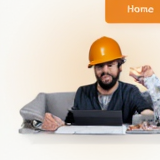
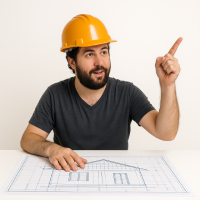
fix: changed style and images used in site

diff --git a/css/brands.css b/css/brands.css
@@ -1,0 +1,6 @@
+/*!
+ * Font Awesome Free 6.7.2 by @fontawesome - https://fontawesome.com
+ * License - https://fontawesome.com/license/free (Icons: CC BY 4.0, Fonts: SIL OFL 1.1, Code: MIT License)
+ * Copyright 2024 Fonticons, Inc.
+ */
+:host,:root{--fa-style-family-brands:"Font Awesome 6 Brands";--fa-font-brands:normal 400 1em/1 "Font Awesome 6 Brands"}@font-face{font-family:"Font Awesome 6 Brands";font-style:normal;font-weight:400;font-display:block;src:url(../webfonts/fa-brands-400.woff2) format("woff2"),url(../webfonts/fa-brands-400.ttf) format("truetype")}.fa-brands,.fab{font-weight:400}.fa-monero{--fa:"\f3d0"}.fa-hooli{--fa:"\f427"}.fa-yelp{--fa:"\f1e9"}.fa-cc-visa{--fa:"\f1f0"}.fa-lastfm{--fa:"\f202"}.fa-shopware{--fa:"\f5b5"}.fa-creative-commons-nc{--fa:"\f4e8"}.fa-aws{--fa:"\f375"}.fa-redhat{--fa:"\f7bc"}.fa-yoast{--fa:"\f2b1"}.fa-cloudflare{--fa:"\e07d"}.fa-ups{--fa:"\f7e0"}.fa-pixiv{--fa:"\e640"}.fa-wpexplorer{--fa:"\f2de"}.fa-dyalog{--fa:"\f399"}.fa-bity{--fa:"\f37a"}.fa-stackpath{--fa:"\f842"}.fa-buysellads{--fa:"\f20d"}.fa-first-order{--fa:"\f2b0"}.fa-modx{--fa:"\f285"}.fa-guilded{--fa:"\e07e"}.fa-vnv{--fa:"\f40b"}.fa-js-square,.fa-square-js{--fa:"\f3b9"}.fa-microsoft{--fa:"\f3ca"}.fa-qq{--fa:"\f1d6"}.fa-orcid{--fa:"\f8d2"}.fa-java{--fa:"\f4e4"}.fa-invision{--fa:"\f7b0"}.fa-creative-commons-pd-alt{--fa:"\f4ed"}.fa-centercode{--fa:"\f380"}.fa-glide-g{--fa:"\f2a6"}.fa-drupal{--fa:"\f1a9"}.fa-jxl{--fa:"\e67b"}.fa-dart-lang{--fa:"\e693"}.fa-hire-a-helper{--fa:"\f3b0"}.fa-creative-commons-by{--fa:"\f4e7"}.fa-unity{--fa:"\e049"}.fa-whmcs{--fa:"\f40d"}.fa-rocketchat{--fa:"\f3e8"}.fa-vk{--fa:"\f189"}.fa-untappd{--fa:"\f405"}.fa-mailchimp{--fa:"\f59e"}.fa-css3-alt{--fa:"\f38b"}.fa-reddit-square,.fa-square-reddit{--fa:"\f1a2"}.fa-vimeo-v{--fa:"\f27d"}.fa-contao{--fa:"\f26d"}.fa-square-font-awesome{--fa:"\e5ad"}.fa-deskpro{--fa:"\f38f"}.fa-brave{--fa:"\e63c"}.fa-sistrix{--fa:"\f3ee"}.fa-instagram-square,.fa-square-instagram{--fa:"\e055"}.fa-battle-net{--fa:"\f835"}.fa-the-red-yeti{--fa:"\f69d"}.fa-hacker-news-square,.fa-square-hacker-news{--fa:"\f3af"}.fa-edge{--fa:"\f282"}.fa-threads{--fa:"\e618"}.fa-napster{--fa:"\f3d2"}.fa-snapchat-square,.fa-square-snapchat{--fa:"\f2ad"}.fa-google-plus-g{--fa:"\f0d5"}.fa-artstation{--fa:"\f77a"}.fa-markdown{--fa:"\f60f"}.fa-sourcetree{--fa:"\f7d3"}.fa-google-plus{--fa:"\f2b3"}.fa-diaspora{--fa:"\f791"}.fa-foursquare{--fa:"\f180"}.fa-stack-overflow{--fa:"\f16c"}.fa-github-alt{--fa:"\f113"}.fa-phoenix-squadron{--fa:"\f511"}.fa-pagelines{--fa:"\f18c"}.fa-algolia{--fa:"\f36c"}.fa-red-river{--fa:"\f3e3"}.fa-creative-commons-sa{--fa:"\f4ef"}.fa-safari{--fa:"\f267"}.fa-google{--fa:"\f1a0"}.fa-font-awesome-alt,.fa-square-font-awesome-stroke{--fa:"\f35c"}.fa-atlassian{--fa:"\f77b"}.fa-linkedin-in{--fa:"\f0e1"}.fa-digital-ocean{--fa:"\f391"}.fa-nimblr{--fa:"\f5a8"}.fa-chromecast{--fa:"\f838"}.fa-evernote{--fa:"\f839"}.fa-hacker-news{--fa:"\f1d4"}.fa-creative-commons-sampling{--fa:"\f4f0"}.fa-adversal{--fa:"\f36a"}.fa-creative-commons{--fa:"\f25e"}.fa-watchman-monitoring{--fa:"\e087"}.fa-fonticons{--fa:"\f280"}.fa-weixin{--fa:"\f1d7"}.fa-shirtsinbulk{--fa:"\f214"}.fa-codepen{--fa:"\f1cb"}.fa-git-alt{--fa:"\f841"}.fa-lyft{--fa:"\f3c3"}.fa-rev{--fa:"\f5b2"}.fa-windows{--fa:"\f17a"}.fa-wizards-of-the-coast{--fa:"\f730"}.fa-square-viadeo,.fa-viadeo-square{--fa:"\f2aa"}.fa-meetup{--fa:"\f2e0"}.fa-centos{--fa:"\f789"}.fa-adn{--fa:"\f170"}.fa-cloudsmith{--fa:"\f384"}.fa-opensuse{--fa:"\e62b"}.fa-pied-piper-alt{--fa:"\f1a8"}.fa-dribbble-square,.fa-square-dribbble{--fa:"\f397"}.fa-codiepie{--fa:"\f284"}.fa-node{--fa:"\f419"}.fa-mix{--fa:"\f3cb"}.fa-steam{--fa:"\f1b6"}.fa-cc-apple-pay{--fa:"\f416"}.fa-scribd{--fa:"\f28a"}.fa-debian{--fa:"\e60b"}.fa-openid{--fa:"\f19b"}.fa-instalod{--fa:"\e081"}.fa-files-pinwheel{--fa:"\e69f"}.fa-expeditedssl{--fa:"\f23e"}.fa-sellcast{--fa:"\f2da"}.fa-square-twitter,.fa-twitter-square{--fa:"\f081"}.fa-r-project{--fa:"\f4f7"}.fa-delicious{--fa:"\f1a5"}.fa-freebsd{--fa:"\f3a4"}.fa-vuejs{--fa:"\f41f"}.fa-accusoft{--fa:"\f369"}.fa-ioxhost{--fa:"\f208"}.fa-fonticons-fi{--fa:"\f3a2"}.fa-app-store{--fa:"\f36f"}.fa-cc-mastercard{--fa:"\f1f1"}.fa-itunes-note{--fa:"\f3b5"}.fa-golang{--fa:"\e40f"}.fa-kickstarter,.fa-square-kickstarter{--fa:"\f3bb"}.fa-grav{--fa:"\f2d6"}.fa-weibo{--fa:"\f18a"}.fa-uncharted{--fa:"\e084"}.fa-firstdraft{--fa:"\f3a1"}.fa-square-youtube,.fa-youtube-square{--fa:"\f431"}.fa-wikipedia-w{--fa:"\f266"}.fa-rendact,.fa-wpressr{--fa:"\f3e4"}.fa-angellist{--fa:"\f209"}.fa-galactic-republic{--fa:"\f50c"}.fa-nfc-directional{--fa:"\e530"}.fa-skype{--fa:"\f17e"}.fa-joget{--fa:"\f3b7"}.fa-fedora{--fa:"\f798"}.fa-stripe-s{--fa:"\f42a"}.fa-meta{--fa:"\e49b"}.fa-laravel{--fa:"\f3bd"}.fa-hotjar{--fa:"\f3b1"}.fa-bluetooth-b{--fa:"\f294"}.fa-square-letterboxd{--fa:"\e62e"}.fa-sticker-mule{--fa:"\f3f7"}.fa-creative-commons-zero{--fa:"\f4f3"}.fa-hips{--fa:"\f452"}.fa-css{--fa:"\e6a2"}.fa-behance{--fa:"\f1b4"}.fa-reddit{--fa:"\f1a1"}.fa-discord{--fa:"\f392"}.fa-chrome{--fa:"\f268"}.fa-app-store-ios{--fa:"\f370"}.fa-cc-discover{--fa:"\f1f2"}.fa-wpbeginner{--fa:"\f297"}.fa-confluence{--fa:"\f78d"}.fa-shoelace{--fa:"\e60c"}.fa-mdb{--fa:"\f8ca"}.fa-dochub{--fa:"\f394"}.fa-accessible-icon{--fa:"\f368"}.fa-ebay{--fa:"\f4f4"}.fa-amazon{--fa:"\f270"}.fa-unsplash{--fa:"\e07c"}.fa-yarn{--fa:"\f7e3"}.fa-square-steam,.fa-steam-square{--fa:"\f1b7"}.fa-500px{--fa:"\f26e"}.fa-square-vimeo,.fa-vimeo-square{--fa:"\f194"}.fa-asymmetrik{--fa:"\f372"}.fa-font-awesome,.fa-font-awesome-flag,.fa-font-awesome-logo-full{--fa:"\f2b4"}.fa-gratipay{--fa:"\f184"}.fa-apple{--fa:"\f179"}.fa-hive{--fa:"\e07f"}.fa-gitkraken{--fa:"\f3a6"}.fa-keybase{--fa:"\f4f5"}.fa-apple-pay{--fa:"\f415"}.fa-padlet{--fa:"\e4a0"}.fa-amazon-pay{--fa:"\f42c"}.fa-github-square,.fa-square-github{--fa:"\f092"}.fa-stumbleupon{--fa:"\f1a4"}.fa-fedex{--fa:"\f797"}.fa-phoenix-framework{--fa:"\f3dc"}.fa-shopify{--fa:"\e057"}.fa-neos{--fa:"\f612"}.fa-square-threads{--fa:"\e619"}.fa-hackerrank{--fa:"\f5f7"}.fa-researchgate{--fa:"\f4f8"}.fa-swift{--fa:"\f8e1"}.fa-angular{--fa:"\f420"}.fa-speakap{--fa:"\f3f3"}.fa-angrycreative{--fa:"\f36e"}.fa-y-combinator{--fa:"\f23b"}.fa-empire{--fa:"\f1d1"}.fa-envira{--fa:"\f299"}.fa-google-scholar{--fa:"\e63b"}.fa-gitlab-square,.fa-square-gitlab{--fa:"\e5ae"}.fa-studiovinari{--fa:"\f3f8"}.fa-pied-piper{--fa:"\f2ae"}.fa-wordpress{--fa:"\f19a"}.fa-product-hunt{--fa:"\f288"}.fa-firefox{--fa:"\f269"}.fa-linode{--fa:"\f2b8"}.fa-goodreads{--fa:"\f3a8"}.fa-odnoklassniki-square,.fa-square-odnoklassniki{--fa:"\f264"}.fa-jsfiddle{--fa:"\f1cc"}.fa-sith{--fa:"\f512"}.fa-themeisle{--fa:"\f2b2"}.fa-page4{--fa:"\f3d7"}.fa-hashnode{--fa:"\e499"}.fa-react{--fa:"\f41b"}.fa-cc-paypal{--fa:"\f1f4"}.fa-squarespace{--fa:"\f5be"}.fa-cc-stripe{--fa:"\f1f5"}.fa-creative-commons-share{--fa:"\f4f2"}.fa-bitcoin{--fa:"\f379"}.fa-keycdn{--fa:"\f3ba"}.fa-opera{--fa:"\f26a"}.fa-itch-io{--fa:"\f83a"}.fa-umbraco{--fa:"\f8e8"}.fa-galactic-senate{--fa:"\f50d"}.fa-ubuntu{--fa:"\f7df"}.fa-draft2digital{--fa:"\f396"}.fa-stripe{--fa:"\f429"}.fa-houzz{--fa:"\f27c"}.fa-gg{--fa:"\f260"}.fa-dhl{--fa:"\f790"}.fa-pinterest-square,.fa-square-pinterest{--fa:"\f0d3"}.fa-xing{--fa:"\f168"}.fa-blackberry{--fa:"\f37b"}.fa-creative-commons-pd{--fa:"\f4ec"}.fa-playstation{--fa:"\f3df"}.fa-quinscape{--fa:"\f459"}.fa-less{--fa:"\f41d"}.fa-blogger-b{--fa:"\f37d"}.fa-opencart{--fa:"\f23d"}.fa-vine{--fa:"\f1ca"}.fa-signal-messenger{--fa:"\e663"}.fa-paypal{--fa:"\f1ed"}.fa-gitlab{--fa:"\f296"}.fa-typo3{--fa:"\f42b"}.fa-reddit-alien{--fa:"\f281"}.fa-yahoo{--fa:"\f19e"}.fa-dailymotion{--fa:"\e052"}.fa-affiliatetheme{--fa:"\f36b"}.fa-pied-piper-pp{--fa:"\f1a7"}.fa-bootstrap{--fa:"\f836"}.fa-odnoklassniki{--fa:"\f263"}.fa-nfc-symbol{--fa:"\e531"}.fa-mintbit{--fa:"\e62f"}.fa-ethereum{--fa:"\f42e"}.fa-speaker-deck{--fa:"\f83c"}.fa-creative-commons-nc-eu{--fa:"\f4e9"}.fa-patreon{--fa:"\f3d9"}.fa-avianex{--fa:"\f374"}.fa-ello{--fa:"\f5f1"}.fa-gofore{--fa:"\f3a7"}.fa-bimobject{--fa:"\f378"}.fa-brave-reverse{--fa:"\e63d"}.fa-facebook-f{--fa:"\f39e"}.fa-google-plus-square,.fa-square-google-plus{--fa:"\f0d4"}.fa-web-awesome{--fa:"\e682"}.fa-mandalorian{--fa:"\f50f"}.fa-first-order-alt{--fa:"\f50a"}.fa-osi{--fa:"\f41a"}.fa-google-wallet{--fa:"\f1ee"}.fa-d-and-d-beyond{--fa:"\f6ca"}.fa-periscope{--fa:"\f3da"}.fa-fulcrum{--fa:"\f50b"}.fa-cloudscale{--fa:"\f383"}.fa-forumbee{--fa:"\f211"}.fa-mizuni{--fa:"\f3cc"}.fa-schlix{--fa:"\f3ea"}.fa-square-xing,.fa-xing-square{--fa:"\f169"}.fa-bandcamp{--fa:"\f2d5"}.fa-wpforms{--fa:"\f298"}.fa-cloudversify{--fa:"\f385"}.fa-usps{--fa:"\f7e1"}.fa-megaport{--fa:"\f5a3"}.fa-magento{--fa:"\f3c4"}.fa-spotify{--fa:"\f1bc"}.fa-optin-monster{--fa:"\f23c"}.fa-fly{--fa:"\f417"}.fa-square-bluesky{--fa:"\e6a3"}.fa-aviato{--fa:"\f421"}.fa-itunes{--fa:"\f3b4"}.fa-cuttlefish{--fa:"\f38c"}.fa-blogger{--fa:"\f37c"}.fa-flickr{--fa:"\f16e"}.fa-viber{--fa:"\f409"}.fa-soundcloud{--fa:"\f1be"}.fa-digg{--fa:"\f1a6"}.fa-tencent-weibo{--fa:"\f1d5"}.fa-letterboxd{--fa:"\e62d"}.fa-symfony{--fa:"\f83d"}.fa-maxcdn{--fa:"\f136"}.fa-etsy{--fa:"\f2d7"}.fa-facebook-messenger{--fa:"\f39f"}.fa-audible{--fa:"\f373"}.fa-think-peaks{--fa:"\f731"}.fa-bilibili{--fa:"\e3d9"}.fa-erlang{--fa:"\f39d"}.fa-x-twitter{--fa:"\e61b"}.fa-cotton-bureau{--fa:"\f89e"}.fa-dashcube{--fa:"\f210"}.fa-42-group,.fa-innosoft{--fa:"\e080"}.fa-stack-exchange{--fa:"\f18d"}.fa-elementor{--fa:"\f430"}.fa-pied-piper-square,.fa-square-pied-piper{--fa:"\e01e"}.fa-creative-commons-nd{--fa:"\f4eb"}.fa-palfed{--fa:"\f3d8"}.fa-superpowers{--fa:"\f2dd"}.fa-resolving{--fa:"\f3e7"}.fa-xbox{--fa:"\f412"}.fa-square-web-awesome-stroke{--fa:"\e684"}.fa-searchengin{--fa:"\f3eb"}.fa-tiktok{--fa:"\e07b"}.fa-facebook-square,.fa-square-facebook{--fa:"\f082"}.fa-renren{--fa:"\f18b"}.fa-linux{--fa:"\f17c"}.fa-glide{--fa:"\f2a5"}.fa-linkedin{--fa:"\f08c"}.fa-hubspot{--fa:"\f3b2"}.fa-deploydog{--fa:"\f38e"}.fa-twitch{--fa:"\f1e8"}.fa-flutter{--fa:"\e694"}.fa-ravelry{--fa:"\f2d9"}.fa-mixer{--fa:"\e056"}.fa-lastfm-square,.fa-square-lastfm{--fa:"\f203"}.fa-vimeo{--fa:"\f40a"}.fa-mendeley{--fa:"\f7b3"}.fa-uniregistry{--fa:"\f404"}.fa-figma{--fa:"\f799"}.fa-creative-commons-remix{--fa:"\f4ee"}.fa-cc-amazon-pay{--fa:"\f42d"}.fa-dropbox{--fa:"\f16b"}.fa-instagram{--fa:"\f16d"}.fa-cmplid{--fa:"\e360"}.fa-upwork{--fa:"\e641"}.fa-facebook{--fa:"\f09a"}.fa-gripfire{--fa:"\f3ac"}.fa-jedi-order{--fa:"\f50e"}.fa-uikit{--fa:"\f403"}.fa-fort-awesome-alt{--fa:"\f3a3"}.fa-phabricator{--fa:"\f3db"}.fa-ussunnah{--fa:"\f407"}.fa-earlybirds{--fa:"\f39a"}.fa-trade-federation{--fa:"\f513"}.fa-autoprefixer{--fa:"\f41c"}.fa-whatsapp{--fa:"\f232"}.fa-square-upwork{--fa:"\e67c"}.fa-slideshare{--fa:"\f1e7"}.fa-google-play{--fa:"\f3ab"}.fa-viadeo{--fa:"\f2a9"}.fa-line{--fa:"\f3c0"}.fa-google-drive{--fa:"\f3aa"}.fa-servicestack{--fa:"\f3ec"}.fa-simplybuilt{--fa:"\f215"}.fa-bitbucket{--fa:"\f171"}.fa-imdb{--fa:"\f2d8"}.fa-deezer{--fa:"\e077"}.fa-raspberry-pi{--fa:"\f7bb"}.fa-jira{--fa:"\f7b1"}.fa-docker{--fa:"\f395"}.fa-screenpal{--fa:"\e570"}.fa-bluetooth{--fa:"\f293"}.fa-gitter{--fa:"\f426"}.fa-d-and-d{--fa:"\f38d"}.fa-microblog{--fa:"\e01a"}.fa-cc-diners-club{--fa:"\f24c"}.fa-gg-circle{--fa:"\f261"}.fa-pied-piper-hat{--fa:"\f4e5"}.fa-kickstarter-k{--fa:"\f3bc"}.fa-yandex{--fa:"\f413"}.fa-readme{--fa:"\f4d5"}.fa-html5{--fa:"\f13b"}.fa-sellsy{--fa:"\f213"}.fa-square-web-awesome{--fa:"\e683"}.fa-sass{--fa:"\f41e"}.fa-wirsindhandwerk,.fa-wsh{--fa:"\e2d0"}.fa-buromobelexperte{--fa:"\f37f"}.fa-salesforce{--fa:"\f83b"}.fa-octopus-deploy{--fa:"\e082"}.fa-medapps{--fa:"\f3c6"}.fa-ns8{--fa:"\f3d5"}.fa-pinterest-p{--fa:"\f231"}.fa-apper{--fa:"\f371"}.fa-fort-awesome{--fa:"\f286"}.fa-waze{--fa:"\f83f"}.fa-bluesky{--fa:"\e671"}.fa-cc-jcb{--fa:"\f24b"}.fa-snapchat,.fa-snapchat-ghost{--fa:"\f2ab"}.fa-fantasy-flight-games{--fa:"\f6dc"}.fa-rust{--fa:"\e07a"}.fa-wix{--fa:"\f5cf"}.fa-behance-square,.fa-square-behance{--fa:"\f1b5"}.fa-supple{--fa:"\f3f9"}.fa-webflow{--fa:"\e65c"}.fa-rebel{--fa:"\f1d0"}.fa-css3{--fa:"\f13c"}.fa-staylinked{--fa:"\f3f5"}.fa-kaggle{--fa:"\f5fa"}.fa-space-awesome{--fa:"\e5ac"}.fa-deviantart{--fa:"\f1bd"}.fa-cpanel{--fa:"\f388"}.fa-goodreads-g{--fa:"\f3a9"}.fa-git-square,.fa-square-git{--fa:"\f1d2"}.fa-square-tumblr,.fa-tumblr-square{--fa:"\f174"}.fa-trello{--fa:"\f181"}.fa-creative-commons-nc-jp{--fa:"\f4ea"}.fa-get-pocket{--fa:"\f265"}.fa-perbyte{--fa:"\e083"}.fa-grunt{--fa:"\f3ad"}.fa-weebly{--fa:"\f5cc"}.fa-connectdevelop{--fa:"\f20e"}.fa-leanpub{--fa:"\f212"}.fa-black-tie{--fa:"\f27e"}.fa-themeco{--fa:"\f5c6"}.fa-python{--fa:"\f3e2"}.fa-android{--fa:"\f17b"}.fa-bots{--fa:"\e340"}.fa-free-code-camp{--fa:"\f2c5"}.fa-hornbill{--fa:"\f592"}.fa-js{--fa:"\f3b8"}.fa-ideal{--fa:"\e013"}.fa-git{--fa:"\f1d3"}.fa-dev{--fa:"\f6cc"}.fa-sketch{--fa:"\f7c6"}.fa-yandex-international{--fa:"\f414"}.fa-cc-amex{--fa:"\f1f3"}.fa-uber{--fa:"\f402"}.fa-github{--fa:"\f09b"}.fa-php{--fa:"\f457"}.fa-alipay{--fa:"\f642"}.fa-youtube{--fa:"\f167"}.fa-skyatlas{--fa:"\f216"}.fa-firefox-browser{--fa:"\e007"}.fa-replyd{--fa:"\f3e6"}.fa-suse{--fa:"\f7d6"}.fa-jenkins{--fa:"\f3b6"}.fa-twitter{--fa:"\f099"}.fa-rockrms{--fa:"\f3e9"}.fa-pinterest{--fa:"\f0d2"}.fa-buffer{--fa:"\f837"}.fa-npm{--fa:"\f3d4"}.fa-yammer{--fa:"\f840"}.fa-btc{--fa:"\f15a"}.fa-dribbble{--fa:"\f17d"}.fa-stumbleupon-circle{--fa:"\f1a3"}.fa-internet-explorer{--fa:"\f26b"}.fa-stubber{--fa:"\e5c7"}.fa-telegram,.fa-telegram-plane{--fa:"\f2c6"}.fa-old-republic{--fa:"\f510"}.fa-odysee{--fa:"\e5c6"}.fa-square-whatsapp,.fa-whatsapp-square{--fa:"\f40c"}.fa-node-js{--fa:"\f3d3"}.fa-edge-legacy{--fa:"\e078"}.fa-slack,.fa-slack-hash{--fa:"\f198"}.fa-medrt{--fa:"\f3c8"}.fa-usb{--fa:"\f287"}.fa-tumblr{--fa:"\f173"}.fa-vaadin{--fa:"\f408"}.fa-quora{--fa:"\f2c4"}.fa-square-x-twitter{--fa:"\e61a"}.fa-reacteurope{--fa:"\f75d"}.fa-medium,.fa-medium-m{--fa:"\f23a"}.fa-amilia{--fa:"\f36d"}.fa-mixcloud{--fa:"\f289"}.fa-flipboard{--fa:"\f44d"}.fa-viacoin{--fa:"\f237"}.fa-critical-role{--fa:"\f6c9"}.fa-sitrox{--fa:"\e44a"}.fa-discourse{--fa:"\f393"}.fa-joomla{--fa:"\f1aa"}.fa-mastodon{--fa:"\f4f6"}.fa-airbnb{--fa:"\f834"}.fa-wolf-pack-battalion{--fa:"\f514"}.fa-buy-n-large{--fa:"\f8a6"}.fa-gulp{--fa:"\f3ae"}.fa-creative-commons-sampling-plus{--fa:"\f4f1"}.fa-strava{--fa:"\f428"}.fa-ember{--fa:"\f423"}.fa-canadian-maple-leaf{--fa:"\f785"}.fa-teamspeak{--fa:"\f4f9"}.fa-pushed{--fa:"\f3e1"}.fa-wordpress-simple{--fa:"\f411"}.fa-nutritionix{--fa:"\f3d6"}.fa-wodu{--fa:"\e088"}.fa-google-pay{--fa:"\e079"}.fa-intercom{--fa:"\f7af"}.fa-zhihu{--fa:"\f63f"}.fa-korvue{--fa:"\f42f"}.fa-pix{--fa:"\e43a"}.fa-steam-symbol{--fa:"\f3f6"}

diff --git a/index.html b/index.html
@@ -5,6 +5,7 @@
     <meta name="viewport" content="width=device-width, initial-scale=1.0">
     <title>Constructora Spec</title>
     <link rel="stylesheet" href="css/style.css">
+    <link rel="stylesheet" href="css/brands.css">
 </head>
 <body>
     <header>
@@ -15,7 +16,7 @@
     <section class="main-image">
         <div class="portrait">
             <img src="image/trabalhador.png" alt="Trabalhador com capacete laranja">
-            <h2>Titulo para apresentação</h2>
+            <h2>Arquitetos e Engenheiros trazendo o melhor</h2>
         </div>
         <img src="image/house.png" alt="Casa moderna">
     </section>
@@ -25,15 +26,15 @@
         <div class="cards">
             <div class="card">
                 <img src="image/card1.png" alt="Casa 1">
-                <p>Descrição breve da casa 1</p>
+                <p>Casa de Verão dos Schinider</p>
             </div>
             <div class="card">
                 <img src="image/card2.png" alt="Casa 2">
-                <p>Descrição breve da casa 2</p>
+                <p>Casa de Praia Venareiro</p>
             </div>
             <div class="card">
                 <img src="image/card3.png" alt="Casa 3">
-                <p>Descrição breve da casa 3</p>
+                <p>Casa de Campo</p>
             </div>
         </div>
     </section>
@@ -43,31 +44,34 @@
         <div class="icons">
             <div class="icon">
                 <img src="image/icon1.png" alt="Ícone 1">
-                <p>Texto 1</p>
+                <p>Mariana Duarte, 27 anos – Balneário Perequê (Porto Belo)</p>
+                <label>"Sou professora e estava realizando o sonho do meu primeiro apartamento. A construtora foi extremamente atenciosa desde o início. Me ajudaram a entender cada etapa da obra e entregaram tudo no prazo, com acabamento muito melhor do que eu esperava. Me senti segura e respeitada durante todo o processo. Recomendo de olhos fechados!"</label>
             </div>
             <div class="icon">
                 <img src="image/icon2.png" alt="Ícone 2">
-                <p>Texto 2</p>
+                <p>Roberto Silva, 45 anos – Meia Praia (Itapema)</p>
+                <label>"Tenho uma pequena empresa de vidraçaria e decidi construir minha sede própria. Já trabalhei com outras construtoras antes, mas nenhuma foi tão profissional e organizada como essa. Cumpriram o cronograma à risca e ainda souberam se adaptar bem às mudanças que pedi no meio do caminho. Um investimento que valeu cada centavo."</label>
             </div>
             <div class="icon">
                 <img src="image/icon3.png" alt="Ícone 3">
-                <p>Texto 3</p>
+                <p>Dona Célia Andrade, 53 anos – Porto Belo (Centro)</p>
+                <label>"Depois de muitos anos trabalhando como cozinheira, juntei minhas economias para reformar minha casa. Estava com medo de ser enrolada, mas fui surpreendida. O pessoal foi muito respeitoso, cumpriu o combinado e deixou minha casa do jeitinho que eu sonhei. Agradeço muito por tudo e já indiquei para minha irmã."</label>
             </div>
         </div>
     </section>
 
     <section class="contact-section">
         <h2>Cotatato</h2>
-        <p>Telefone: (XX) XXXX-XXXX</p>
-        <p>Email: contato@constructora.com</p>
-        <p>Localização: Rua Exemplo, 123</p>
+        <p>Telefone: (47) 98871-9207</p>
+        <p>Email: atendimentotech.ai@gmail.com</p>
+        <p>Localização: Rua Rubens Alvez, 812</p>
     </section>
 
     <footer>
         <div class="social-icons">
-            <img src="image/icon_fb.png" alt="Facebook">
-            <img src="image/icon_x.png" alt="Twitter">
-            <img src="image/icon_insta.png" alt="Instagram">
+            <a href="#"><i class="fa-brands fa-facebook"></i></a>
+            <a href="#"><i class="fa-brands fa-square-x-twitter"></i></a>
+            <a href="#"><i class="fa-brands fa-instagram"></i></a>
         </div>
         <p>© 2025 Constructora Spec</p>
         <p>Website: hexacore.com.br</p>

diff --git a/css/style.css b/css/style.css
@@ -97,10 +97,14 @@ header h1 {
 }
 
 .icon img {
-    height: 50px;
+    height: 100px;
     margin-bottom: 10px;
+    border-radius: 50px;
 }
-
+.contact-section{
+    width: 100%;
+    align-items: center;
+}
 footer {
     padding: 20px;
     background-color: #f4a261;
